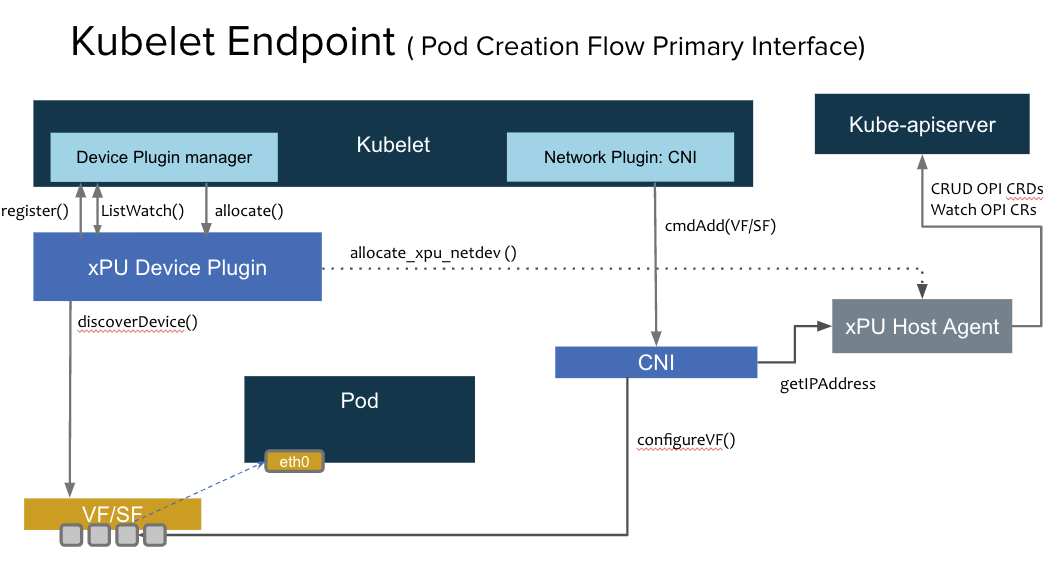
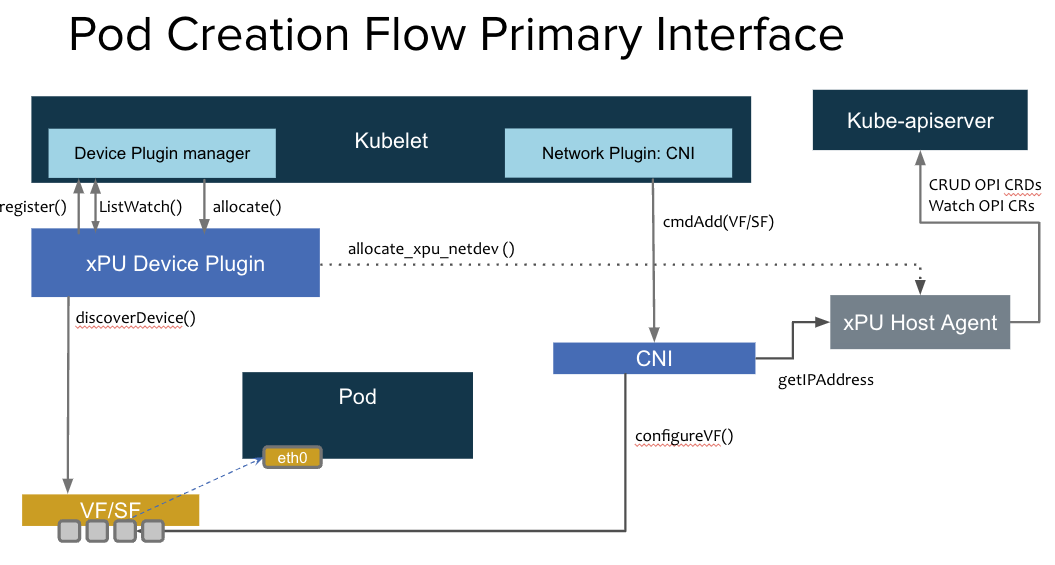
xpu host view: update high level overview diagram

diff --git a/sequence-diagrams/host-provisioning-xPU-VF.md b/sequence-diagrams/host-provisioning-xPU-VF.md
@@ -12,9 +12,11 @@ The main idea behind this document is to specify the flow of VF/SF allocation fr
 
 - This will work for primary or secondary networking.
 
+- Selectors will be used to decide worker nodes to apply the CRDs to.
+
 ## Opens
 
-- In the multi-cluster scenarion: is the VF/SF really the primary/only interface for the Pod? How would this work with something like prometheus today (if it's gathering app metrics).
+- In the multi-cluster scenarion: is the VF/SF really the primary/only interface for the Pod? How would this work with something like prometheus today (if it's gathering app metrics) or other services that gather logs.
 
 ### Provisioning via CRDs
 
